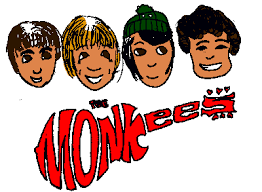
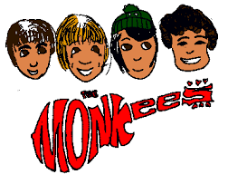
footer became header, nav reformat

diff --git a/index.html b/index.html
@@ -11,44 +11,52 @@
 </head>
 
 <body>
-    <nav class="container-fluid">
+
+    <header>
         <div class="row">
-            <div class="col logo">
+            <div class="col-4">
+                <div class="row">
+                    <a class="col btn btn-lg fab fa-facebook" href="https://www.facebook.com/TheMonkees/"></a>
+                    <a class="col btn btn-lg fab fa-twitter" href="https://twitter.com/TheMonkees"></a>
+                    <a class="col btn btn-lg fab fa-youtube" href="https://www.youtube.com/channel/UCv1oY0OLtsEySHeP1TkYNqA"></a>
+                </div>
             </div>
-            <div class="col btn btn-lg">
-                HOME
+        </div>
+    </header>
+
+    <nav class="container-fluid">
+        <div class="row align-items-center">
+            <div class="col-lg-6 col-md-3">
+                <img src="assets/images/cover.png"></img>
             </div>
-            <div class="col btn btn-lg">
-                MUSIC
-            </div>
-            <div class="col btn btn-lg">
-                PRIVATE EVENTS
-            </div>
-            <div class="col btn btn-lg">
-                TOUR DATES
-            </div>
-            <div class="col btn btn-lg">
-                ABOUT THE BAND
+            <div class="col-lg-6 col-md-9">
+                <div class="row">
+                    <div class="col btn btn-lg">
+                        HOME
+                    </div>
+                    <div class="col btn btn-lg">
+                        MUSIC
+                    </div>
+                    <div class="col btn btn-lg">
+                        EVENTS
+                    </div>
+                    <div class="col btn btn-lg">
+                        TOUR
+                    </div>
+                    <div class="col btn btn-lg">
+                        ABOUT
+                    </div>
+                </div>
             </div>
         </div>
     </nav>
-    <header>
 
-    </header>
     <section>
-
     </section>
-    <footer class="container-fluid">
-        <div class="row justify-content-end">
-            <div class="col-4">
-                <div class="row">
-                <a class="col btn btn-lg fab fa-facebook" href="https://www.facebook.com/TheMonkees/"></a>
-                <a class="col btn btn-lg fab fa-twitter" href="https://twitter.com/TheMonkees"></a>
-                <a class="col btn btn-lg fab fa-youtube" href="https://www.youtube.com/channel/UCv1oY0OLtsEySHeP1TkYNqA"></a>
-            </div>
-            </div>
-        </div>
+
+    <footer>
     </footer>
+
 </body>
 
 </html>

diff --git a/assets/style.css b/assets/style.css
@@ -1,23 +1,22 @@
-body {
+header {
     color: #d1d1d1;
     background-color: #0f0f0f;
+}
+.fab:hover {
+    color: #ffdddd;
+    background-color: #540000;
+}
+nav {
+    margin-top: 50px;
+    background-color: white;
+    opacity: 0.8;
 }
 
 .btn {
     margin-right: 0;
     margin-left: 0;
 }
-.btn:hover {
-    color: #ffdddd;
-    background-color: #540000;
-}
-.logo {
-    background: url(images/cover.png);
-    background-position: center;
-    background-repeat: no-repeat;
-    background-size: cover;
-}
-header {
+body {
     background: url(images/monkees.jpg);
     background-position: center;
     background-repeat: no-repeat;
